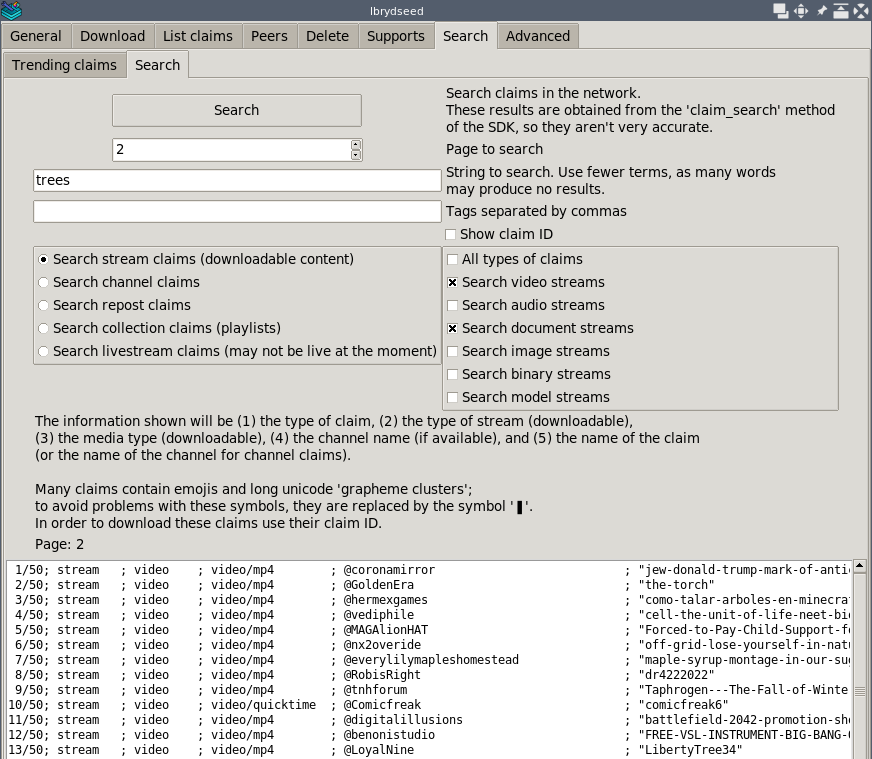
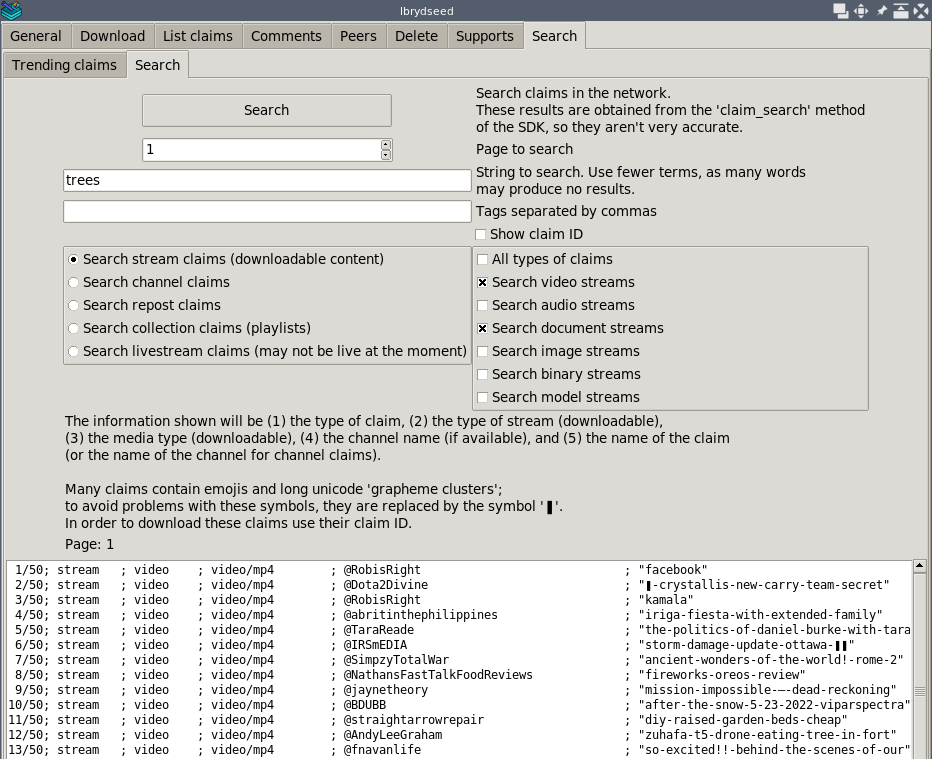
doc: updated images for the usage documentation
New image for the new comments page:

- `g_lbrydseed_comments.png`

Renamed images:

- `g_lbrydseed_controlling.png` to `g_lbrydseed_controlling_claims.png`
- `g_lbrydseed_seeding.png` to `g_lbrydseed_seeding_ratio.png`
- `g_lbrydseed_list_supports.png` to `g_lbrydseed_supports_list.png`
- `g_lbrydseed_add_support.png` to `g_lbrydseed_supports_add.png`

Updated images:

- `lbrydseed-ch-claims.png`
- `g_lbrydseed_download_channel.png`
- `g_lbrydseed_download_single.png`
- `g_lbrydseed_list_down_claims.png`
- `g_lbrydseed_list_down_invalid.png`
- `g_lbrydseed_list_ch_claims.png`
- `g_lbrydseed_subscribed_channels.png`
- `g_lbrydseed_created_channels.png`
- `g_lbrydseed_published_claims.png`
- `g_lbrydseed_peers_channel.png`
- `g_lbrydseed_peers_multi_channels.png`
- `g_lbrydseed_peers_subscriptions.png`
- `g_lbrydseed_delete_single.png`
- `g_lbrydseed_cleanup_channel.png`
- `g_lbrydseed_trending.png`
- `g_lbrydseed_search.png`

In the program the `Advanced` page was removed,
its two subpages `Controlling claims` and `Seeding ratio`
were moved to other pages.
The first, `Controlling claims`, is moved at the end of `List claims`,
and the second, `Seeding ratio`, is moved at the end of `Peers`.

The images in `usage.md` are moved from the `## Advanced` section
to `## Listing` and `## Peers`, and the `## Advanced` section
is removed.

diff --git a/doc/usage.md b/doc/usage.md
@@ -6,11 +6,11 @@ Go back to the [_README_](../README.md).
 
 - [Downloading](#downloading)
 - [Listing](#listing)
+- [Comments](#comments)
 - [Peers](#peers)
 - [Deleting](#deleting)
 - [Supports](#supports)
 - [Searching](#searching)
-- [Advanced](#advanced)
 
 ## Downloading
 
@@ -39,7 +39,7 @@ previously downloaded but no longer available online.
 
 Press `"List channel claims"` to display all claims from a single channel.
 
-![lbrydseed_list_claims](../img/g_lbrydseed_list_ch_claims.png)
+![lbrydseed_list_ch_claims](../img/g_lbrydseed_list_ch_claims.png)
 
 Press `"List subscribed channels"` to list the subscribed channels
 that are in our wallet file.
@@ -57,6 +57,22 @@ Press `"List published claims"` to display the claims that were defined
 with the current wallet, under a channel or outside of it (anonymously).
 
 ![lbrydseed_published_claims](../img/g_lbrydseed_published_claims.png)
+
+Press `"Display controlling claims"` to show our published claims,
+and whether they are "controlling", meaning that they have the highest bid
+for their name.
+
+![lbrydseed_controlling_claims](../img/g_lbrydseed_controlling_claims.png)
+
+[Go back to _Content_](#content)
+
+## Comments
+
+Press `"Display comments"` to display comments under a given claim.
+Then press `"Reply, edit, or delete comment"` to create a new comment,
+create a reply to an existing comment, edit a comment, or abandon a comment.
+
+![lbrydseed_published_claims](../img/g_lbrydseed_comments.png)
 
 [Go back to _Content_](#content)
 
@@ -77,6 +93,11 @@ for the latest claims of the channels in our subscription list.
 
 ![lbrydseed_peers_subscriptions](../img/g_lbrydseed_peers_subscriptions.png)
 
+Press `"Display seeding ratio"` to show an estimate of the blobs uploaded
+and downloaded.
+
+![lbrydseed_seeding_ratio](../img/g_lbrydseed_seeding_ratio.png)
+
 [Go back to _Content_](#content)
 
 ## Deleting
@@ -96,13 +117,13 @@ then press `"Clean up claims"`.
 
 Press `"List supports"` to show claims that we support with LBC.
 
-![lbrydseed_list_supports](../img/g_lbrydseed_list_supports.png)
+![lbrydseed_supports_list](../img/g_lbrydseed_supports_list.png)
 
 Enter the name or claim ID of various claims (it can be any type of claim
 such as videos and channels), a number,
 and then press `"Add or remove support"`.
 
-![lbrydseed_add_support](../img/g_lbrydseed_add_support.png)
+![lbrydseed_supports_add](../img/g_lbrydseed_supports_add.png)
 
 [Go back to _Content_](#content)
 
@@ -118,20 +139,5 @@ At the moment, the search functionality is very basic, so using simple words
 is better than long sentences.
 
 ![lbrydseed_search](../img/g_lbrydseed_search.png)
-
-[Go back to _Content_](#content)
-
-## Advanced
-
-Press `"Display seeding ratio"` to show an estimate of the blobs uploaded
-and downloaded.
-
-![lbrydseed_seeding](../img/g_lbrydseed_seeding.png)
-
-Press `"Display controlling claims"` to show our published claims,
-and whether they are "controlling", meaning that they have the highest bid
-for their name.
-
-![lbrydseed_controlling](../img/g_lbrydseed_controlling.png)
 
 [Go back to _Content_](#content)
